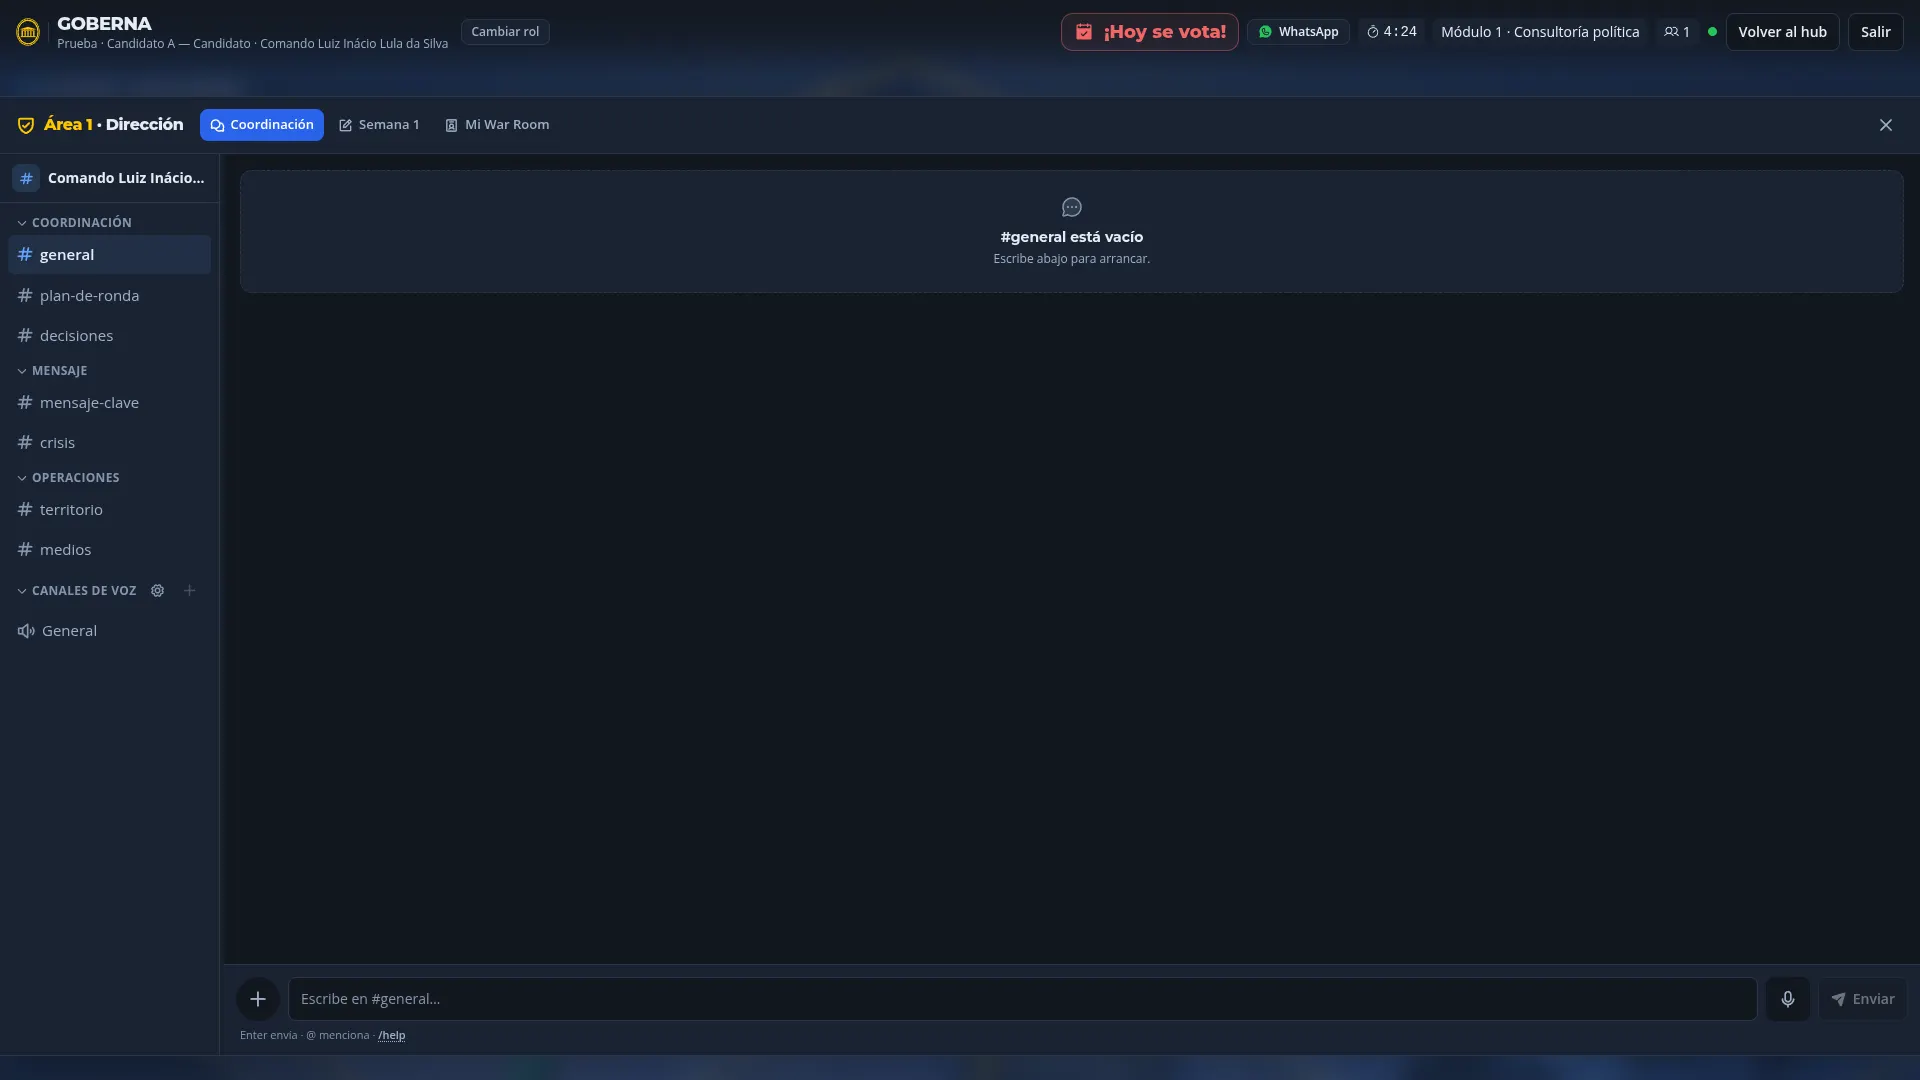
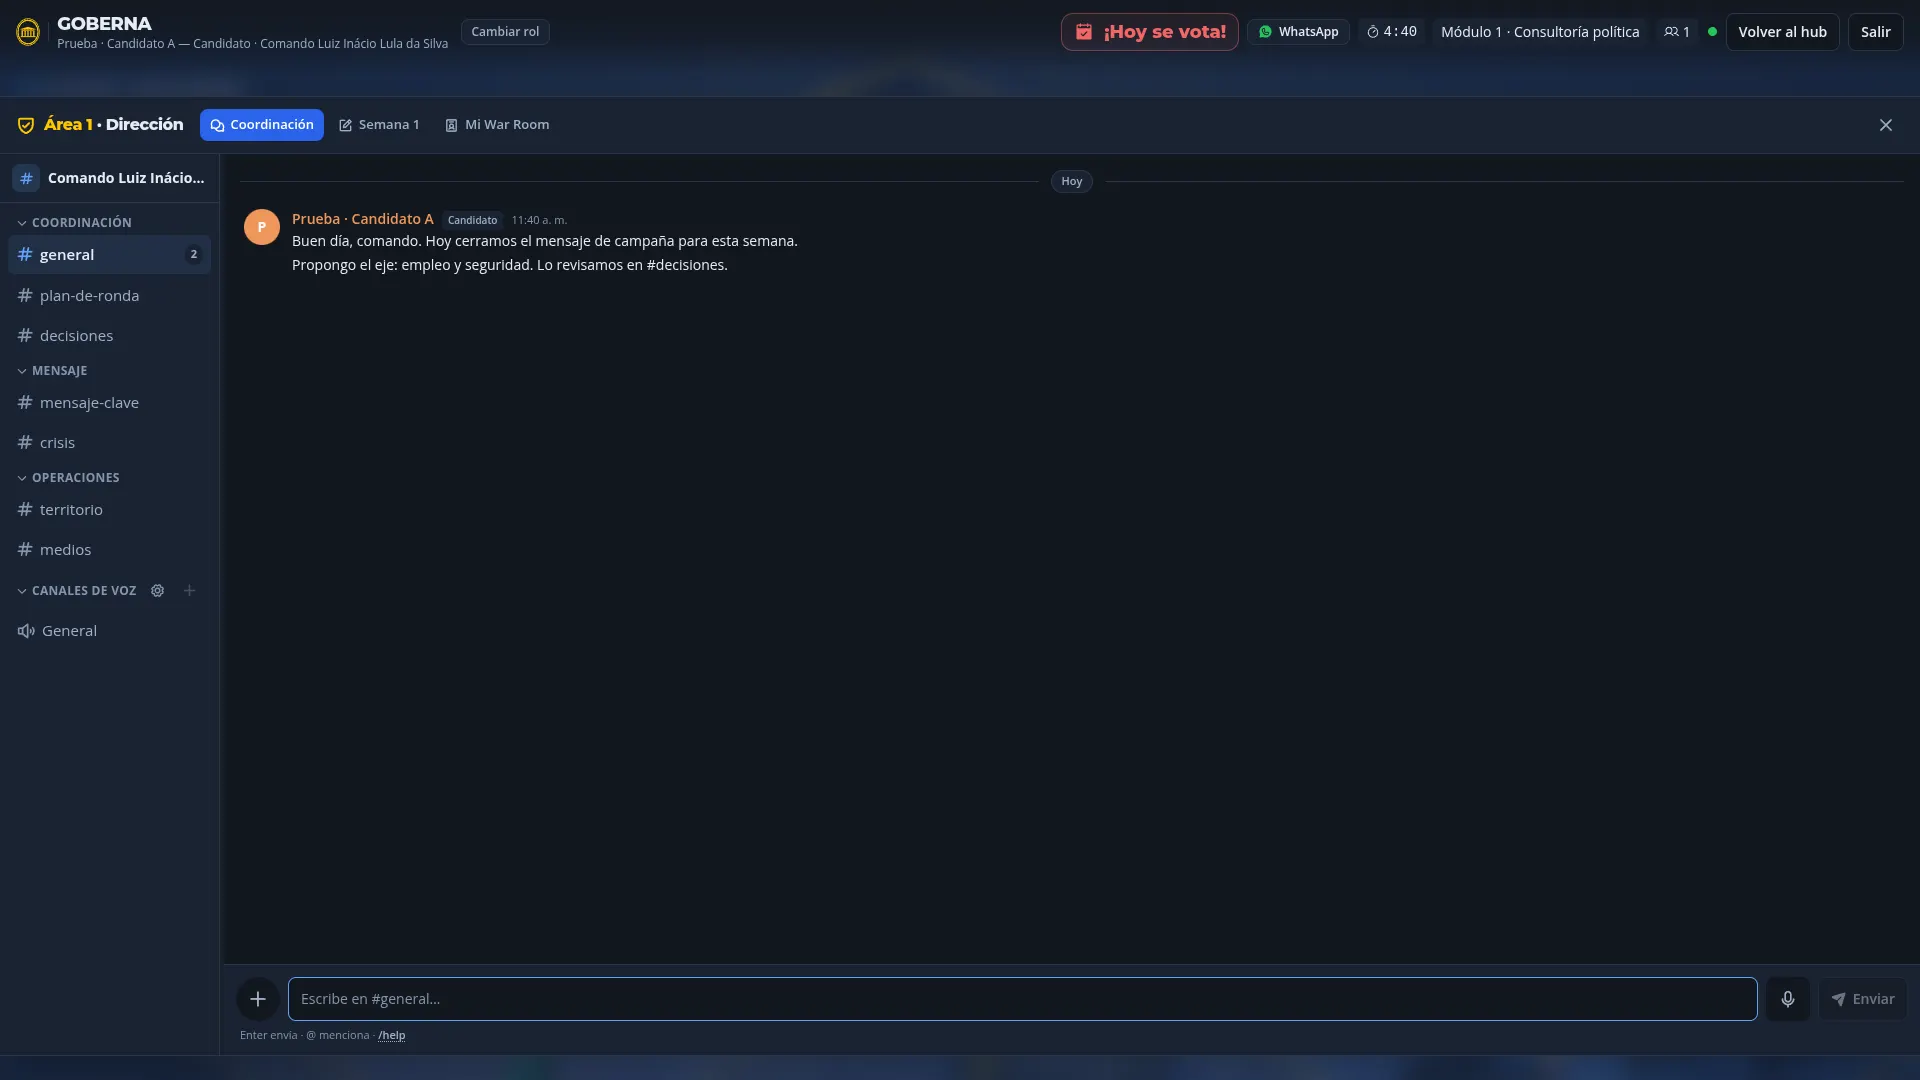
feat: guía ordenada por áreas, con red social, noticiero y coordinación
Orden: ingreso, comando y rol, Área 1 (Dirección), Área 2 (Análisis / Monitoreo), Área 3 (Operaciones), debates. Se suman Coordinación, Red social y Noticiero con capturas reales.

Changed region(s): [[0.125, 0.1833, 0.4062, 0.275], [0.5, 0.1833, 0.5938, 0.2444]]

diff --git a/index.html b/index.html
@@ -181,7 +181,6 @@ h2{font-size:50px;margin:14px 0 12px}
   <div id="progress"></div>
   <div class="hud top"><div class="brand"><i></i>GOBERNA · WAR ROOM</div><div id="seccion">Guía del alumno</div></div>
 
-  <!-- 1 · Portada -->
   <section class="slide cover" data-sec="Guía del alumno">
     <div class="orb"></div>
     <div class="tag">Simulador de campaña electoral</div>
@@ -190,18 +189,17 @@ h2{font-size:50px;margin:14px 0 12px}
     <div class="meta"><span class="chip gold">Guía del alumno</span><span class="chip blue">Versión 0.2</span></div>
   </section>
 
-  <!-- 2 · Mapa -->
   <section class="slide" data-sec="Qué vas a ver">
     <div class="kicker">Mapa de la guía</div>
     <h2>Qué vas a ver y dónde trabajas</h2>
-    <p class="lead">Seis pasos para dominar el simulador, del ingreso hasta la zona de debates.</p>
+    <p class="lead">Seis partes, en el orden de la sala: del ingreso a la zona de debates, área por área.</p>
     <div class="grid2">
       <div class="card"><ol class="agenda">
         <li>Ingresar a tu cuenta <span class="chip gold">Parte 01</span></li>
-        <li>Tu comando y tu rol <span class="chip gold">Parte 02</span></li>
-        <li>El candidato: perfil e imagen <span class="chip gold">Parte 03</span></li>
-        <li>Redes sociales y contenido <span class="chip gold">Parte 04</span></li>
-        <li>Cómo sube tu puntaje en las encuestas <span class="chip gold">Parte 05</span></li>
+        <li>Tu comando, tu rol y la sala <span class="chip gold">Parte 02</span></li>
+        <li>Área 1 · Dirección <span class="chip gold">Parte 03</span></li>
+        <li>Área 2 · Análisis / Monitoreo <span class="chip gold">Parte 04</span></li>
+        <li>Área 3 · Operaciones <span class="chip gold">Parte 05</span></li>
         <li>La zona de debates <span class="chip gold">Parte 06</span></li>
       </ol></div>
       <div class="card"><div class="cmds">
@@ -214,7 +212,6 @@ h2{font-size:50px;margin:14px 0 12px}
     </div>
   </section>
 
-  <!-- 3 · Un solo acceso -->
   <section class="slide" data-sec="01 · Ingreso">
     <div class="kicker">01 · Ingreso</div>
     <h2>Un solo acceso para todos los simuladores</h2>
@@ -234,9 +231,9 @@ h2{font-size:50px;margin:14px 0 12px}
   </section>
 
   <section class="slide" data-sec="01 · Ingreso" data-demo="primer"><div class="kicker">01 · Ingreso · Tu primer ingreso</div><h2>Entras por primera vez</h2><div class="host"></div></section>
+
   <section class="slide" data-sec="01 · Ingreso" data-demo="regreso"><div class="kicker">01 · Ingreso · Los demás días</div><h2>Ya tienes tu contraseña</h2><div class="host"></div></section>
 
-  <!-- 6 · Tu lista -->
   <section class="slide" data-sec="01 · Ingreso">
     <div class="kicker">01 · Ingreso · Tu lista</div>
     <h2>Lo que ves al entrar</h2>
@@ -251,10 +248,8 @@ h2{font-size:50px;margin:14px 0 12px}
     </div>
   </section>
 
-  <!-- 7 · Comando y rol -->
   <section class="slide" data-sec="02 · Tu comando y tu rol" data-demo="rol"><div class="kicker">02 · Tu comando y tu rol</div><h2>Entras a tu comando y eliges tu rol</h2><div class="host"></div></section>
 
-  <!-- 8 · Los 10 roles -->
   <section class="slide" data-sec="02 · Tu comando y tu rol">
     <div class="kicker">02 · Tu comando y tu rol</div>
     <h2>Diez roles, cuatro áreas</h2>
@@ -278,15 +273,14 @@ h2{font-size:50px;margin:14px 0 12px}
     <div class="legend-line"><span><i style="background:var(--gold)"></i>Rol de jefatura: único por comando</span><span><i style="background:var(--line)"></i>Los otros siete se repiten: un comando tiene más personas que roles</span></div>
   </section>
 
-  <!-- 9 · La sala -->
   <section class="slide" data-sec="02 · Tu comando y tu rol" data-demo="sala"><div class="kicker">02 · Tu comando y tu rol</div><h2>La sala: cuatro sectores</h2><div class="host"></div></section>
 
-  <!-- 10 · Perfil del candidato -->
-  <section class="slide" data-sec="03 · El candidato" data-demo="candidato"><div class="kicker">03 · El candidato · Perfil e imagen</div><h2>Configura tu War Room</h2><div class="host"></div></section>
+  <section class="slide" data-sec="03 · Área 1 · Dirección" data-demo="coordinacion"><div class="kicker">03 · Área 1 · Dirección · Coordinación</div><h2>Coordinación: el chat y la voz de tu comando</h2><div class="host"></div></section>
 
-  <!-- 11 · La sala se personaliza -->
-  <section class="slide" data-sec="03 · El candidato">
-    <div class="kicker">03 · El candidato · Resultado</div>
+  <section class="slide" data-sec="03 · Área 1 · Dirección" data-demo="candidato"><div class="kicker">03 · Área 1 · Dirección · Mi War Room</div><h2>Configura tu War Room</h2><div class="host"></div></section>
+
+  <section class="slide" data-sec="03 · Área 1 · Dirección">
+    <div class="kicker">03 · Área 1 · Dirección · Resultado</div>
     <h2>Tu identidad aparece en toda la sala</h2>
     <div class="demo">
       <div class="win"><div class="bar"><div class="dots"><i></i><i></i><i></i></div><div class="url">https://simulacion.goberna.us/war-room/</div></div>
@@ -299,13 +293,11 @@ h2{font-size:50px;margin:14px 0 12px}
     </div>
   </section>
 
-  <!-- 12 · Contenido -->
-  <section class="slide" data-sec="04 · Redes y contenido" data-demo="contenido"><div class="kicker">04 · Redes sociales y contenido</div><h2>De la Biblioteca al muro de la clase</h2><div class="host"></div></section>
+  <section class="slide" data-sec="03 · Área 1 · Dirección" data-demo="entrega"><div class="kicker">03 · Área 1 · Dirección · Semana 1</div><h2>Entrega tu trabajo de la semana</h2><div class="host"></div></section>
 
-  <!-- 13 · Encuesta -->
-  <section class="slide" data-sec="05 · Encuestas">
-    <div class="kicker">05 · Encuestas · Dónde se ve</div>
-    <h2>La encuesta de la semana</h2>
+  <section class="slide" data-sec="04 · Área 2 · Análisis / Monitoreo">
+    <div class="kicker">04 · Área 2 · Análisis / Monitoreo · Portada</div>
+    <h2>El diario y la encuesta de la semana</h2>
     <div class="demo">
       <div class="win"><div class="bar"><div class="dots"><i></i><i></i><i></i></div><div class="url">https://simulacion.goberna.us/war-room/</div></div>
         <div class="screen" data-img="ana-1-diario" data-calls='[{"x":69,"y":33,"t":"Encuesta de la semana","d":0.3},{"x":35,"y":33,"t":"Portada del diario","d":1.1}]'></div></div>
@@ -317,9 +309,12 @@ h2{font-size:50px;margin:14px 0 12px}
     </div>
   </section>
 
-  <!-- 14 · Cómo sube el puntaje -->
-  <section class="slide" data-sec="05 · Encuestas">
-    <div class="kicker">05 · Encuestas · Cómo sube tu número</div>
+  <section class="slide" data-sec="04 · Área 2 · Análisis / Monitoreo" data-demo="redsocial"><div class="kicker">04 · Área 2 · Análisis / Monitoreo · Red social</div><h2>Así se ven las publicaciones en la red social</h2><div class="host"></div></section>
+
+  <section class="slide" data-sec="04 · Área 2 · Análisis / Monitoreo" data-demo="noticiero"><div class="kicker">04 · Área 2 · Análisis / Monitoreo · Noticiero</div><h2>El noticiero: la cobertura de la campaña</h2><div class="host"></div></section>
+
+  <section class="slide" data-sec="04 · Área 2 · Análisis / Monitoreo">
+    <div class="kicker">04 · Área 2 · Análisis / Monitoreo · Tu puntaje</div>
     <h2>Dos caminos para mover la encuesta</h2>
     <div class="rules">
       <div class="card"><h3>1 · El pulso del muro</h3>
@@ -343,13 +338,10 @@ h2{font-size:50px;margin:14px 0 12px}
     </div>
   </section>
 
-  <!-- 15 · Entrega semanal -->
-  <section class="slide" data-sec="05 · Encuestas" data-demo="entrega"><div class="kicker">05 · Encuestas · Tu entrega semanal</div><h2>Entrega tu trabajo de la semana</h2><div class="host"></div></section>
+  <section class="slide" data-sec="05 · Área 3 · Operaciones" data-demo="contenido"><div class="kicker">05 · Área 3 · Operaciones · Biblioteca y publicar</div><h2>De la Biblioteca al muro de la clase</h2><div class="host"></div></section>
 
-  <!-- 16 · Debate -->
   <section class="slide" data-sec="06 · Debates" data-demo="debate"><div class="kicker">06 · La zona de debates</div><h2>Un escenario para debatir</h2><div class="host"></div></section>
 
-  <!-- 17 · Cierre -->
   <section class="slide cierre" data-sec="Próximas actividades">
     <div class="kicker">Lo que sigue</div>
     <h2>Se abre con los módulos siguientes</h2>
@@ -361,7 +353,7 @@ h2{font-size:50px;margin:14px 0 12px}
     </div>
   </section>
 
-  <div class="hud bottom"><div><b id="num">01</b> / <span id="total">17</span></div><div class="navbtns"><button id="prev" aria-label="Anterior">‹</button><button id="next" aria-label="Siguiente">›</button></div></div>
+  <div class="hud bottom"><div><b id="num">01</b> / <span id="total">20</span></div><div class="navbtns"><button id="prev" aria-label="Anterior">‹</button><button id="next" aria-label="Siguiente">›</button></div></div>
   <div class="hint">← → para avanzar · F pantalla completa</div>
 </div>
 </div>
@@ -409,13 +401,29 @@ const DEMOS = {
     { img:'dir-5-completo', ring:[966,168,510,358], t:'Míralo en vivo', p:'La vista previa se actualiza mientras llenas el formulario: logo, candidato, lema y color.' },
     { img:'dir-6-guardado', ring:[461,877,476,48], t:'Pulsa «Guardar War Room»', p:'Verás «War Room configurado». Desde ese momento tu identidad aparece en la sala y en tus publicaciones.' }
   ]},
+  coordinacion: { url: URL_JUEGO, pasos: [
+    { img:'dir-1-coordinacion', ring:[0,205,222,455], t:'Canales por tema', p:'Coordinación, Mensaje y Operaciones: cada canal es un chat de tu comando, como #general, #plan-de-ronda o #decisiones.' },
+    { img:'dir-1-coordinacion', ring:[236,170,1100,120], t:'Habla con tu comando', p:'Escribe en el canal y pulsa Enter. Tu rol aparece junto a tu nombre; con @ mencionas a alguien y con /help ves los comandos.' },
+    { img:'dir-1-coordinacion', ring:[0,578,222,70], t:'Canales de voz', p:'Además del chat, el comando tiene canales de voz para coordinarse hablando.' }
+  ]},
+  redsocial: { url: URL_JUEGO, pasos: [
+    { img:'ana-2-red-social', ring:[363,155,828,128], t:'El muro de toda la clase', p:'Aquí aparecen las publicaciones de todos los comandos, las más recientes primero. Puedes buscar por texto o filtrar por partido.' },
+    { img:'ana-2-red-social', ring:[363,298,828,72], t:'Cada publicación lleva la identidad de su partido', p:'Logo, nombre del partido, su usuario y el candidato: es lo que se configuró en «Mi War Room».' },
+    { img:'ana-2-red-social', ring:[363,370,828,503], t:'El mensaje y sus piezas', p:'El texto, de hasta 280 caracteres, y las imágenes o videos que se adjuntaron desde la Biblioteca.' },
+    { img:'ana-2-red-social', ring:[363,873,828,46], t:'Reaccionar, comentar y compartir', p:'Las interacciones que recibe de otros comandos le dan pulso a quien publicó: reacción ×1, comentario ×3 y compartido ×5.' }
+  ]},
+  noticiero: { url: URL_JUEGO, pasos: [
+    { img:'ana-3-noticiero', ring:[313,290,345,45], t:'Abre «Noticiero»', p:'Es la pestaña de cobertura del diario Goberna News, junto a Portada, Red Social y Mercado.' },
+    { img:'ana-3-noticiero', ring:[313,438,1280,276], t:'Así se ve una noticia', p:'Título, bajada y cuerpo. Las noticias las publica el docente; además, al cerrar cada ronda aparece cobertura automática: movimientos de la encuesta, ataques y vuelcos.' },
+    { img:'ana-3-noticiero', ring:[336,600,1234,100], t:'Reacciona y comenta', p:'Cada nota admite «me gusta», «no me gusta» y comentarios de la clase.' }
+  ]},
   contenido: { url: URL_JUEGO, pasos: [
     { img:'sala-personalizada', ring:[565,502,158,46], t:'Entra a Operaciones', p:'Es el sector donde se prepara y se publica el contenido del comando.' },
     { img:'ope-1-biblioteca', ring:[1314,339,98,48], t:'Sube tus piezas a la Biblioteca', p:'Videos, imágenes e identidad. Cualquiera del comando puede subir; Comunicaciones las publica desde aquí.' },
     { img:'ope-2-publicar', ring:[589,223,742,98], t:'Escribe tu publicación', p:'Hasta 280 caracteres. Puedes sumar emoji o publicarla de forma anónima.' },
     { img:'ope-3-adjuntar', ring:[637,496,213,123], t:'Adjunta una pieza de tu Biblioteca', p:'Puedes adjuntar hasta 6 piezas, entre imágenes y videos.' },
     { img:'ope-4-preview', ring:[582,436,742,534], t:'Revisa «Así se va a ver»', p:'La publicación sale con la identidad de tu partido: logo, nombre y candidato.' },
-    { img:'ope-5-publicado', ring:[565,497,775,555], t:'Ya está en el muro de la clase', p:'Los otros comandos la ven y pueden reaccionar, comentar o compartir. Eso le da pulso a tu comando.' }
+    { img:'ope-5-publicado', ring:[565,497,775,555], t:'Ya está en el muro de la clase', p:'Los otros comandos la ven en la red social del diario (Área 2) y pueden reaccionar, comentar o compartir. Eso le da pulso a tu comando.' }
   ]},
   entrega: { url: URL_JUEGO, pasos: [
     { img:'dir-7-semana', ring:[637,283,646,76], t:'Elige tu archivo', p:'PDF, Word, PPT, Excel, imagen o zip. Es el trabajo que el docente califica.' },
